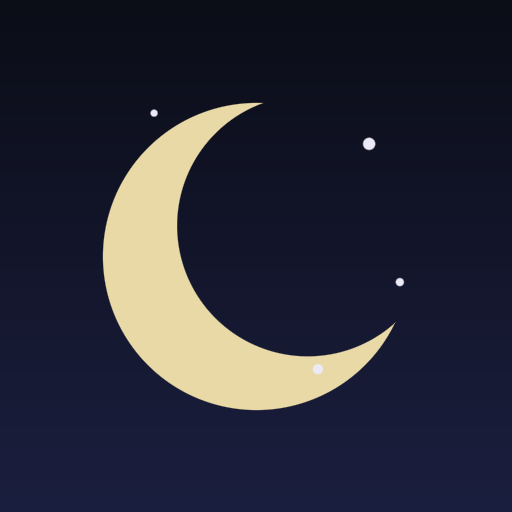
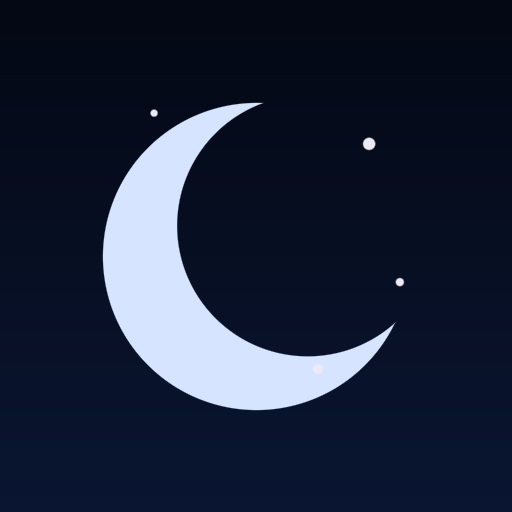
Nuova grafica: palette Argento lunare e icone al tratto

Changed region(s): [[0.1875, 0.1875, 0.75, 0.8125], [0.75, 0.625, 0.7812, 0.6562]]

diff --git a/style.css b/style.css
@@ -1,12 +1,21 @@
 :root{
-  --bg:#0b0d17;--bg2:#12162a;--card:#171c33;--card2:#1e2442;--line:#2a3158;
-  --fg:#eceaf6;--mut:#9aa0c4;--acc:#9d8cff;--gold:#e8d9a6;--danger:#ff7b86;
+  /* Argento lunare: notte blu quasi nera, argento e azzurro ghiaccio (Selune) */
+  --bg:#04060f;--bg2:#0a1124;--card:#0f1a33;--card2:#16264a;--line:#2c4373;
+  --fg:#f2f6ff;--mut:#98abd0;--acc:#bcd4ff;--gold:#ffffff;--danger:#ff7b86;
+  --glow:#8fb4ff;--halo:rgba(170,200,255,.28);
   --r:16px;--safe:env(safe-area-inset-bottom,0px);
   color-scheme:dark;
 }
 *{box-sizing:border-box;-webkit-tap-highlight-color:transparent}
 html,body{margin:0;height:100%}
-body{background:radial-gradient(1200px 600px at 50% -10%,#1b2046 0%,var(--bg) 60%) fixed;color:var(--fg);
+body{background:
+  radial-gradient(220px 220px at 90% 4%,var(--halo),transparent 70%) fixed,
+  radial-gradient(1.2px 1.2px at 12% 18%,#fff9,transparent) fixed,radial-gradient(1px 1px at 30% 8%,#fff8,transparent) fixed,
+  radial-gradient(1.4px 1.4px at 55% 22%,#fffb,transparent) fixed,radial-gradient(1px 1px at 72% 40%,#fff7,transparent) fixed,
+  radial-gradient(1.2px 1.2px at 20% 55%,#fff8,transparent) fixed,radial-gradient(1px 1px at 85% 68%,#fff7,transparent) fixed,
+  radial-gradient(1.3px 1.3px at 40% 80%,#fff9,transparent) fixed,radial-gradient(1px 1px at 8% 92%,#fff7,transparent) fixed,
+  radial-gradient(1px 1px at 63% 12%,#fff8,transparent) fixed,radial-gradient(1.2px 1.2px at 92% 88%,#fff8,transparent) fixed,
+  linear-gradient(180deg,var(--bg2),var(--bg) 70%) fixed;color:var(--fg);
   font:16px/1.4 system-ui,-apple-system,Roboto,sans-serif;overflow-x:hidden;user-select:none;-webkit-user-select:none}
 [hidden]{display:none!important}
 .sr{position:absolute;left:-9999px}
@@ -20,8 +29,9 @@ button.icon{width:44px;height:44px;padding:0;font-size:1.25rem}
 
 /* Blocco */
 .lock{min-height:100%;display:flex;flex-direction:column;align-items:center;justify-content:center;gap:14px;padding:24px 16px}
-.moon{font-size:4rem;filter:drop-shadow(0 0 24px #9d8cff88)}
-.lock h1{font-size:1.8rem;color:var(--gold)}
+.moon{width:84px;height:84px;color:var(--acc);filter:drop-shadow(0 0 22px var(--glow))}
+.moon svg{width:100%;height:100%;fill:currentColor;fill-opacity:.12;stroke:currentColor;stroke-width:1;stroke-linecap:round;stroke-linejoin:round}
+.lock h1{font-size:1.8rem;color:var(--gold);text-shadow:0 0 18px var(--glow)}
 #lockForm{width:min(360px,100%);display:flex;flex-direction:column;gap:12px}
 #lockForm input[type=password]{width:100%;padding:14px;border-radius:12px;border:1px solid var(--line);background:var(--card);user-select:text;-webkit-user-select:text}
 .check{display:flex;gap:8px;align-items:center;color:var(--mut);font-size:.92rem}
@@ -32,8 +42,8 @@ button.icon{width:44px;height:44px;padding:0;font-size:1.25rem}
 
 /* App */
 header{position:sticky;top:0;z-index:5;display:flex;align-items:center;gap:12px;padding:10px 16px;
-  background:linear-gradient(var(--bg),#0b0d17ee);border-bottom:1px solid var(--line)}
-header h1{font-size:1.2rem;color:var(--gold);margin-right:auto}
+  background:linear-gradient(var(--bg),#04060fee);border-bottom:1px solid var(--line)}
+header h1{font-size:1.2rem;color:var(--gold);margin-right:auto;text-shadow:0 0 14px var(--glow)}
 .tabs{display:flex;background:var(--card);border:1px solid var(--line);border-radius:12px;padding:3px}
 .tabs button{border:0;background:transparent;padding:8px 14px;border-radius:9px;color:var(--mut)}
 .tabs button[aria-selected=true]{background:var(--card2);color:var(--fg)}
@@ -43,11 +53,14 @@ main{padding:14px 16px calc(130px + var(--safe));max-width:1100px;margin:0 auto}
 @media(min-width:620px){.grid{grid-template-columns:repeat(3,1fr)}}
 @media(min-width:900px){.grid{grid-template-columns:repeat(4,1fr)}}
 .tile{position:relative;min-height:92px;display:flex;flex-direction:column;align-items:center;justify-content:center;gap:6px;
-  padding:12px 8px;border-radius:var(--r);background:linear-gradient(160deg,var(--card2),var(--card));border:1px solid var(--line);
+  padding:12px 8px;border-radius:var(--r);background:linear-gradient(160deg,var(--card2),var(--card));border:1px solid var(--line);box-shadow:inset 0 1px 0 #ffffff14;
   font-weight:600;font-size:1.02rem;transition:transform .08s,box-shadow .2s}
-.tile .ic{font-size:1.7rem;line-height:1}
+.tile .ic{display:block;width:30px;height:30px;color:var(--acc)}
+.tile .ic svg{width:100%;height:100%;fill:none;stroke:currentColor;stroke-width:1.5;stroke-linecap:round;stroke-linejoin:round;filter:drop-shadow(0 0 6px var(--glow))}
+.tile.lockd .ic{color:var(--gold)}
+.tile.on .ic{color:var(--gold)}
 .tile:active{transform:scale(.97)}
-.tile.on{box-shadow:0 0 0 2px var(--acc),0 0 24px #9d8cff66}
+.tile.on{border-color:var(--glow);box-shadow:0 0 0 1px var(--glow),0 0 26px -2px var(--glow)}
 .tile.lockd{border-style:dashed;color:var(--gold)}
 .tile.lockd small{font-weight:400;color:var(--mut);font-size:.72rem}
 .holdring{position:absolute;inset:0;border-radius:var(--r);pointer-events:none;overflow:hidden}
@@ -55,7 +68,7 @@ main{padding:14px 16px calc(130px + var(--safe));max-width:1100px;margin:0 auto}
 .holding .holdring::after{width:100%;transition:width .55s linear}
 
 .bar{position:fixed;left:0;right:0;bottom:0;z-index:6;display:flex;gap:12px;align-items:center;
-  padding:12px 16px calc(12px + var(--safe));background:#0d1020f2;backdrop-filter:blur(8px);border-top:1px solid var(--line)}
+  padding:12px 16px calc(12px + var(--safe));background:#050914f2;backdrop-filter:blur(8px);border-top:1px solid var(--line)}
 .now{flex:1;min-width:0}
 .nowcat{font-size:.78rem;color:var(--acc);text-transform:uppercase;letter-spacing:.08em}
 .nowtxt{font-family:Georgia,serif;font-style:italic;max-height:2.8em;overflow:hidden;color:var(--fg)}
@@ -70,7 +83,7 @@ main{padding:14px 16px calc(130px + var(--safe));max-width:1100px;margin:0 auto}
 .chips button[aria-pressed=true]{background:var(--acc);color:#0b0d17;border-color:var(--acc)}
 .list{list-style:none;margin:0;padding:0;display:flex;flex-direction:column;gap:8px}
 .item{position:relative;display:flex;gap:10px;align-items:flex-start;padding:12px;border-radius:12px;background:var(--card);border:1px solid var(--line);overflow:hidden}
-.item.on{border-color:var(--acc);box-shadow:0 0 14px #9d8cff55}
+.item.on{border-color:var(--glow);box-shadow:0 0 16px -2px var(--glow)}
 .item .t{flex:1;font-family:Georgia,serif}
 .item .meta{display:block;font-family:system-ui,sans-serif;font-size:.72rem;color:var(--mut);margin-top:2px}
 .badge{font-size:.7rem;border:1px solid var(--line);border-radius:6px;padding:0 6px;color:var(--mut);align-self:center}

diff --git a/app.js b/app.js
@@ -229,7 +229,9 @@ function disegnaGriglia() {
     const b = document.createElement("button");
     b.className = "tile" + (c.k === "CRE" ? " lockd" : ""); b.dataset.k = c.k;
     b.innerHTML = `<span class="holdring"></span><span class="ic"></span><span class="lb"></span>` + (c.k === "CRE" ? "<small>tieni premuto</small>" : "");
-    b.querySelector(".ic").textContent = c.icona; b.querySelector(".lb").textContent = c.breve;
+    // L'SVG viene dal catalogo cifrato prodotto dalla build: contenuto proprio, non input esterno.
+    b.querySelector(".ic").innerHTML = c.svg ? `<svg viewBox="0 0 24 24" aria-hidden="true">${c.svg}</svg>` : "";
+    b.querySelector(".lb").textContent = c.breve;
     if (c.k === "CRE") holdable(b, () => perCategoria("CRE")); else b.addEventListener("click", () => perCategoria(c.k));
     g.appendChild(b);
   }

diff --git a/index.html b/index.html
@@ -4,7 +4,7 @@
 <meta charset="utf-8">
 <meta name="viewport" content="width=device-width,initial-scale=1,viewport-fit=cover">
 <meta name="robots" content="noindex,nofollow">
-<meta name="theme-color" content="#0b0d17">
+<meta name="theme-color" content="#04060f">
 <title>Shadow</title>
 <link rel="manifest" href="manifest.webmanifest">
 <link rel="icon" href="icon-192.png">
@@ -14,7 +14,7 @@
 <body>
 
 <section id="lock" class="lock" hidden>
-  <div class="moon" aria-hidden="true">🌙</div>
+  <div class="moon" aria-hidden="true"><svg viewBox="0 0 24 24"><path d="M21 12.8A9 9 0 1 1 11.2 3a7 7 0 0 0 9.8 9.8z"/></svg></div>
   <h1>Shadow</h1>
   <form id="lockForm" autocomplete="off">
     <label for="pw" class="sr">Password</label>

diff --git a/sw.js b/sw.js
@@ -1,5 +1,5 @@
 // Service worker: guscio dell'app in cache per l'uso offline; i dati cifrati li gestisce app.js (cache "sb-data").
-const SHELL = "sb-shell-20261025231643";
+const SHELL = "sb-shell-20261026195900";
 const FILES = ["./", "index.html", "app.js", "style.css", "manifest.webmanifest", "icon-192.png", "icon-512.png"];
 
 // La nuova versione resta "in attesa" finché l'utente non preme «Aggiorna» nel banner dell'app.
